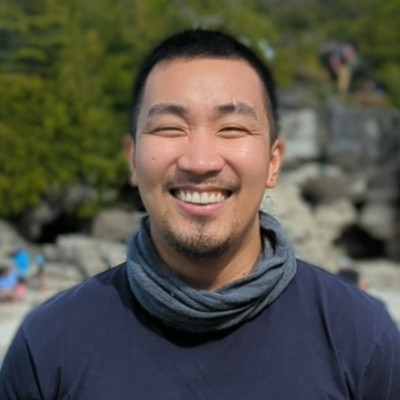
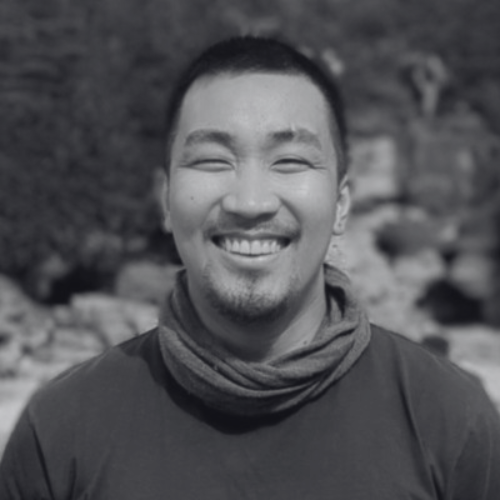
minor change profile pic

diff --git a/src/components/About.jsx b/src/components/About.jsx
@@ -1,5 +1,5 @@
 import React from "react";
-import Profile from "../assets/about-me.png";
+import Profile from "../assets/profile.png";
 import Hashtag from "./Hashtag";
 
 const About = () => {
@@ -28,8 +28,8 @@ const About = () => {
           <div className="flex items-center leading-loose">
             <p>
               Driven by a background in Software Development and a passion for
-              Cybersecurity, I’ve transitioned into a Senior Fraud Analyst role
-              where I tackle emerging threats with a tech-first approach.
+              Fraud Analytics, I’ve transitioned into a Senior Fraud Analyst
+              role where I tackle emerging threats with a tech-first approach.
               Staying ahead of advancements in AI and cybersecurity allows me to
               create innovative, human-centered strategies to detect and prevent
               fraud effectively.

diff --git a/src/components/Footer.jsx b/src/components/Footer.jsx
@@ -2,7 +2,7 @@ import React from "react";
 
 const Footer = () => {
   return (
-    <div className="mt-16 mb-2">
+    <div className="mt-44 mb-2">
       <h2 className="text-gray-300 text-center">
         © Copyright 2024. Made by GJ
       </h2>
